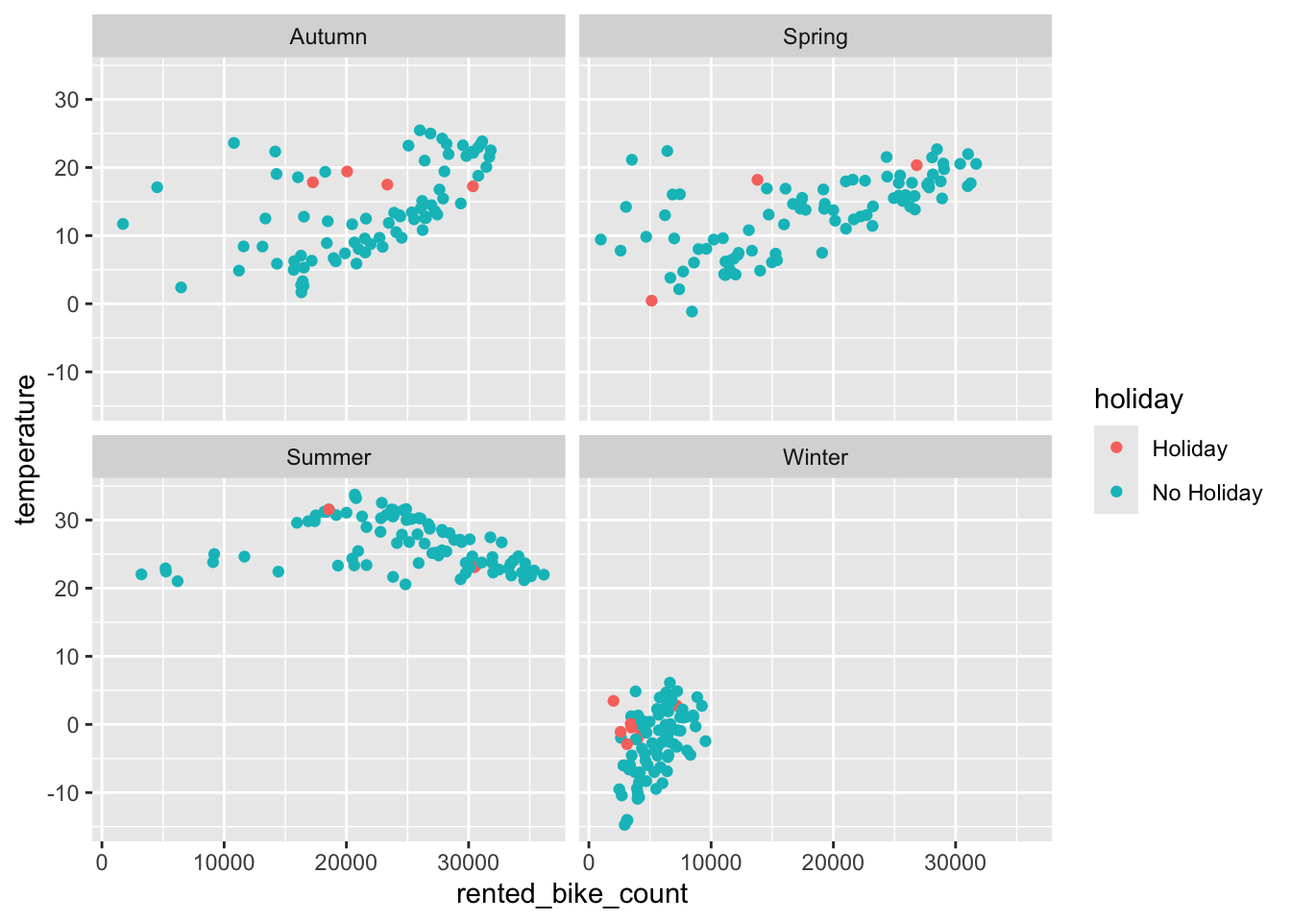
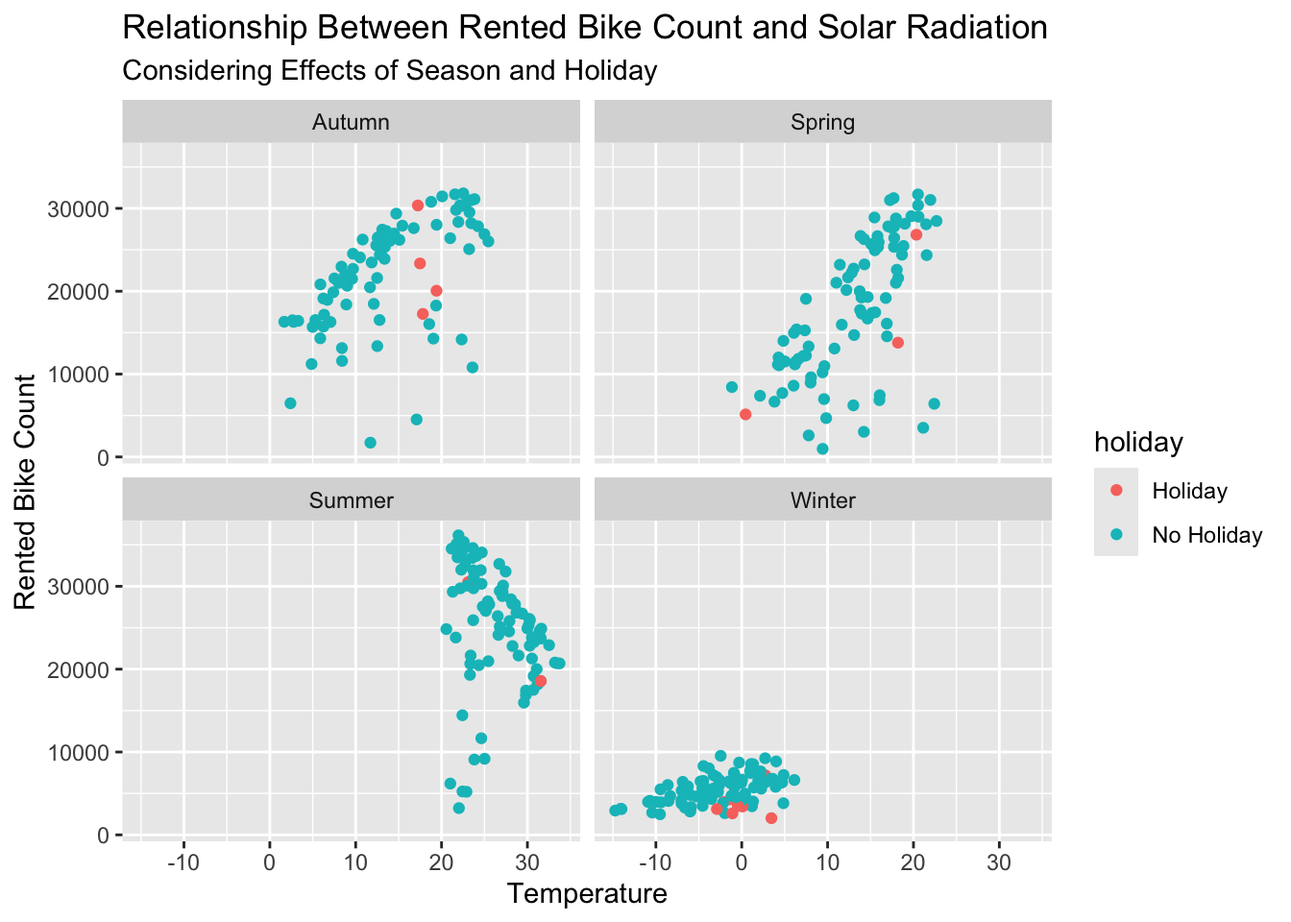
final commit

diff --git a/docs/basic_modeling_practice.html b/docs/basic_modeling_practice.html
@@ -162,6 +162,7 @@ pre > code.sourceCode > span > a:first-child::before { text-decoration: underlin
 </section>
 <section id="check-and-manipulate-the-data" class="level2">
 <h2 class="anchored" data-anchor-id="check-and-manipulate-the-data">Check and manipulate the data</h2>
+<p>Check for any missing values.</p>
 <div class="cell">
 <div class="sourceCode cell-code" id="cb3"><pre class="sourceCode r code-with-copy"><code class="sourceCode r"><span id="cb3-1"><a href="#cb3-1" aria-hidden="true" tabindex="-1"></a><span class="fu">vis_miss</span>(seoul_bike_data)</span></code><button title="Copy to Clipboard" class="code-copy-button"><i class="bi"></i></button></pre></div>
 <div class="cell-output-display">
@@ -172,6 +173,7 @@ pre > code.sourceCode > span > a:first-child::before { text-decoration: underlin
 </div>
 </div>
 </div>
+<p>Explore columns names, column types, and values.</p>
 <div class="cell">
 <div class="sourceCode cell-code" id="cb4"><pre class="sourceCode r code-with-copy"><code class="sourceCode r"><span id="cb4-1"><a href="#cb4-1" aria-hidden="true" tabindex="-1"></a><span class="fu">glimpse</span>(seoul_bike_data)</span></code><button title="Copy to Clipboard" class="code-copy-button"><i class="bi"></i></button></pre></div>
 <div class="cell-output cell-output-stdout">
@@ -193,6 +195,7 @@ $ Holiday                     &lt;chr&gt; "No Holiday", "No Holiday", "No Holida
 $ `Functioning Day`           &lt;chr&gt; "Yes", "Yes", "Yes", "Yes", "Yes", "Yes", …</code></pre>
 </div>
 </div>
+<p>Generate basic summary statistics for numeric columns and check the unique values for the categorical variables.</p>
 <div class="cell">
 <div class="sourceCode cell-code" id="cb6"><pre class="sourceCode r code-with-copy"><code class="sourceCode r"><span id="cb6-1"><a href="#cb6-1" aria-hidden="true" tabindex="-1"></a><span class="fu">skim</span>(seoul_bike_data)</span></code><button title="Copy to Clipboard" class="code-copy-button"><i class="bi"></i></button></pre></div>
 <div class="cell-output-display">
@@ -469,9 +472,11 @@ $ `Functioning Day`           &lt;chr&gt; "Yes", "Yes", "Yes", "Yes", "Yes", "Ye
 </table>
 </div>
 </div>
+<p>Simplify column names.</p>
 <div class="cell">
 <div class="sourceCode cell-code" id="cb7"><pre class="sourceCode r code-with-copy"><code class="sourceCode r"><span id="cb7-1"><a href="#cb7-1" aria-hidden="true" tabindex="-1"></a><span class="fu">names</span>(seoul_bike_data) <span class="ot">&lt;-</span> <span class="fu">str_remove</span>(<span class="fu">names</span>(seoul_bike_data), <span class="st">"</span><span class="sc">\\</span><span class="st">s*</span><span class="sc">\\</span><span class="st">([^</span><span class="sc">\\</span><span class="st">)]+</span><span class="sc">\\</span><span class="st">)"</span>)</span></code><button title="Copy to Clipboard" class="code-copy-button"><i class="bi"></i></button></pre></div>
 </div>
+<p>Convert the <code>Date</code> column into an actual date. Turn the character variables (<code>Seasons</code>, <code>Holiday</code>, and <code>Functioning Day</code>) into factors. Rename the all variables to have easy to use names in snake case.</p>
 <div class="cell">
 <div class="sourceCode cell-code" id="cb8"><pre class="sourceCode r code-with-copy"><code class="sourceCode r"><span id="cb8-1"><a href="#cb8-1" aria-hidden="true" tabindex="-1"></a>seoul_bike_data <span class="ot">&lt;-</span></span>
 <span id="cb8-2"><a href="#cb8-2" aria-hidden="true" tabindex="-1"></a>  seoul_bike_data <span class="sc">|&gt;</span></span>
@@ -503,6 +508,7 @@ $ `Functioning Day`           &lt;chr&gt; "Yes", "Yes", "Yes", "Yes", "Yes", "Ye
 </section>
 <section id="exploratory-data-analysis" class="level2">
 <h2 class="anchored" data-anchor-id="exploratory-data-analysis">Exploratory data analysis</h2>
+<p>Generate summary statistics across variables.</p>
 <div class="cell">
 <div class="sourceCode cell-code" id="cb10"><pre class="sourceCode r code-with-copy"><code class="sourceCode r"><span id="cb10-1"><a href="#cb10-1" aria-hidden="true" tabindex="-1"></a><span class="fu">summary</span>(seoul_bike_data)</span></code><button title="Copy to Clipboard" class="code-copy-button"><i class="bi"></i></button></pre></div>
 <div class="cell-output cell-output-stdout">
@@ -830,6 +836,7 @@ $ `Functioning Day`           &lt;chr&gt; "Yes", "Yes", "Yes", "Yes", "Yes", "Ye
 </table>
 </div>
 </div>
+<p>Explore <code>rented_bike_count</code> by the <code>functioning_day</code> variable.</p>
 <div class="cell">
 <div class="sourceCode cell-code" id="cb13"><pre class="sourceCode r code-with-copy"><code class="sourceCode r"><span id="cb13-1"><a href="#cb13-1" aria-hidden="true" tabindex="-1"></a>seoul_bike_data <span class="sc">|&gt;</span></span>
 <span id="cb13-2"><a href="#cb13-2" aria-hidden="true" tabindex="-1"></a>  <span class="fu">group_by</span>(functioning_day) <span class="sc">|&gt;</span></span>
@@ -938,6 +945,8 @@ $ `Functioning Day`           &lt;chr&gt; "Yes", "Yes", "Yes", "Yes", "Yes", "Ye
 </table>
 </div>
 </div>
+<p>There appear to be no bike rentals on non-functioning days. This implies the business is closed on these days and should be removed from the final data used for analysis.</p>
+<p>Create an object that captures all the weather variables.</p>
 <div class="cell">
 <div class="sourceCode cell-code" id="cb14"><pre class="sourceCode r code-with-copy"><code class="sourceCode r"><span id="cb14-1"><a href="#cb14-1" aria-hidden="true" tabindex="-1"></a>weather_vars <span class="ot">&lt;-</span> <span class="fu">names</span>(seoul_bike_data[<span class="dv">4</span><span class="sc">:</span><span class="dv">9</span>])</span>
 <span id="cb14-2"><a href="#cb14-2" aria-hidden="true" tabindex="-1"></a>weather_vars</span></code><button title="Copy to Clipboard" class="code-copy-button"><i class="bi"></i></button></pre></div>
@@ -946,6 +955,12 @@ $ `Functioning Day`           &lt;chr&gt; "Yes", "Yes", "Yes", "Yes", "Yes", "Ye
 [4] "visibility"            "dew_point_temperature" "solar_radiation"      </code></pre>
 </div>
 </div>
+<p>To simplify analysis, summarize across the hours so that each day has one observation associated with it:</p>
+<ul>
+<li><code>group_by()</code> the <code>date</code>, <code>seasons</code>, and <code>holiday</code> variables</li>
+<li>find the <code>sum</code> of the <code>rented_bike_count</code>, <code>rainfall</code>, and <code>snowfall</code> variables</li>
+<li>find the <code>mean</code> of all the weather related variables</li>
+</ul>
 <div class="cell">
 <div class="sourceCode cell-code" id="cb16"><pre class="sourceCode r code-with-copy"><code class="sourceCode r"><span id="cb16-1"><a href="#cb16-1" aria-hidden="true" tabindex="-1"></a>new_seoul_bike_data <span class="ot">&lt;-</span></span>
 <span id="cb16-2"><a href="#cb16-2" aria-hidden="true" tabindex="-1"></a>  seoul_bike_data <span class="sc">|&gt;</span></span>
@@ -975,7 +990,7 @@ $ `Functioning Day`           &lt;chr&gt; "Yes", "Yes", "Yes", "Yes", "Yes", "Ye
 #   dew_point_temperature &lt;dbl&gt;, solar_radiation &lt;dbl&gt;</code></pre>
 </div>
 </div>
-<p>Recreate your basic summary stats</p>
+<p>Recreate basic summary statistics.</p>
 <div class="cell">
 <div class="sourceCode cell-code" id="cb18"><pre class="sourceCode r code-with-copy"><code class="sourceCode r"><span id="cb18-1"><a href="#cb18-1" aria-hidden="true" tabindex="-1"></a><span class="fu">summary</span>(new_seoul_bike_data)</span></code><button title="Copy to Clipboard" class="code-copy-button"><i class="bi"></i></button></pre></div>
 <div class="cell-output cell-output-stdout">
@@ -1023,7 +1038,7 @@ std.dev           0.597     491.16                 12.99           0.316
 coef.var          0.346       0.34                  3.29           0.557</code></pre>
 </div>
 </div>
-<p>Report correlation between numeric variables</p>
+<p>Report correlation between numeric variables.</p>
 <div class="cell">
 <div class="sourceCode cell-code" id="cb22"><pre class="sourceCode r code-with-copy"><code class="sourceCode r"><span id="cb22-1"><a href="#cb22-1" aria-hidden="true" tabindex="-1"></a><span class="fu">cor</span>(new_seoul_bike_data[,<span class="dv">4</span><span class="sc">:</span><span class="fu">ncol</span>(new_seoul_bike_data)])</span></code><button title="Copy to Clipboard" class="code-copy-button"><i class="bi"></i></button></pre></div>
 <div class="cell-output cell-output-stdout">
@@ -1059,12 +1074,16 @@ dew_point_temperature           0.383
 solar_radiation                 1.000</code></pre>
 </div>
 </div>
-<p>Create some plots to explore relationships</p>
+<p>Create some plots to explore relationships.</p>
 <div class="cell">
 <div class="sourceCode cell-code" id="cb24"><pre class="sourceCode r code-with-copy"><code class="sourceCode r"><span id="cb24-1"><a href="#cb24-1" aria-hidden="true" tabindex="-1"></a>new_seoul_bike_data <span class="sc">|&gt;</span></span>
-<span id="cb24-2"><a href="#cb24-2" aria-hidden="true" tabindex="-1"></a>  <span class="fu">ggplot</span>(<span class="fu">aes</span>(<span class="at">x =</span> rented_bike_count, <span class="at">y =</span> temperature)) <span class="sc">+</span></span>
+<span id="cb24-2"><a href="#cb24-2" aria-hidden="true" tabindex="-1"></a>  <span class="fu">ggplot</span>(<span class="fu">aes</span>(<span class="at">x =</span> temperature, <span class="at">y =</span> rented_bike_count)) <span class="sc">+</span></span>
 <span id="cb24-3"><a href="#cb24-3" aria-hidden="true" tabindex="-1"></a>  <span class="fu">geom_point</span>(<span class="fu">aes</span>(<span class="at">color =</span> holiday)) <span class="sc">+</span></span>
-<span id="cb24-4"><a href="#cb24-4" aria-hidden="true" tabindex="-1"></a>  <span class="fu">facet_wrap</span>(<span class="sc">~</span> seasons)</span></code><button title="Copy to Clipboard" class="code-copy-button"><i class="bi"></i></button></pre></div>
+<span id="cb24-4"><a href="#cb24-4" aria-hidden="true" tabindex="-1"></a>  <span class="fu">facet_wrap</span>(<span class="sc">~</span> seasons) <span class="sc">+</span></span>
+<span id="cb24-5"><a href="#cb24-5" aria-hidden="true" tabindex="-1"></a>  <span class="fu">ggtitle</span>(<span class="st">"Relationship Between Rented Bike Count and Solar Radiation"</span>,</span>
+<span id="cb24-6"><a href="#cb24-6" aria-hidden="true" tabindex="-1"></a>          <span class="at">subtitle =</span> <span class="st">"Considering Effects of Season and Holiday"</span>) <span class="sc">+</span></span>
+<span id="cb24-7"><a href="#cb24-7" aria-hidden="true" tabindex="-1"></a>  <span class="fu">xlab</span>(<span class="st">"Temperature"</span>) <span class="sc">+</span></span>
+<span id="cb24-8"><a href="#cb24-8" aria-hidden="true" tabindex="-1"></a>  <span class="fu">ylab</span>(<span class="st">"Rented Bike Count"</span>)</span></code><button title="Copy to Clipboard" class="code-copy-button"><i class="bi"></i></button></pre></div>
 <div class="cell-output-display">
 <div>
 <figure class="figure">
@@ -1075,9 +1094,13 @@ solar_radiation                 1.000</code></pre>
 </div>
 <div class="cell">
 <div class="sourceCode cell-code" id="cb25"><pre class="sourceCode r code-with-copy"><code class="sourceCode r"><span id="cb25-1"><a href="#cb25-1" aria-hidden="true" tabindex="-1"></a>new_seoul_bike_data <span class="sc">|&gt;</span></span>
-<span id="cb25-2"><a href="#cb25-2" aria-hidden="true" tabindex="-1"></a>  <span class="fu">ggplot</span>(<span class="fu">aes</span>(<span class="at">x =</span> rented_bike_count, <span class="at">y =</span> wind_speed)) <span class="sc">+</span></span>
+<span id="cb25-2"><a href="#cb25-2" aria-hidden="true" tabindex="-1"></a>  <span class="fu">ggplot</span>(<span class="fu">aes</span>(<span class="at">x =</span> wind_speed, <span class="at">y =</span> rented_bike_count)) <span class="sc">+</span></span>
 <span id="cb25-3"><a href="#cb25-3" aria-hidden="true" tabindex="-1"></a>  <span class="fu">geom_point</span>() <span class="sc">+</span></span>
-<span id="cb25-4"><a href="#cb25-4" aria-hidden="true" tabindex="-1"></a>  <span class="fu">facet_wrap</span>(<span class="sc">~</span> seasons)</span></code><button title="Copy to Clipboard" class="code-copy-button"><i class="bi"></i></button></pre></div>
+<span id="cb25-4"><a href="#cb25-4" aria-hidden="true" tabindex="-1"></a>  <span class="fu">facet_wrap</span>(<span class="sc">~</span> seasons) <span class="sc">+</span></span>
+<span id="cb25-5"><a href="#cb25-5" aria-hidden="true" tabindex="-1"></a>  <span class="fu">ggtitle</span>(<span class="st">"Relationship Between Rented Bike Count and Wind Speed"</span>,</span>
+<span id="cb25-6"><a href="#cb25-6" aria-hidden="true" tabindex="-1"></a>          <span class="at">subtitle =</span> <span class="st">"Considering Effects of Season"</span>) <span class="sc">+</span></span>
+<span id="cb25-7"><a href="#cb25-7" aria-hidden="true" tabindex="-1"></a>  <span class="fu">xlab</span>(<span class="st">"Wind Speed"</span>) <span class="sc">+</span></span>
+<span id="cb25-8"><a href="#cb25-8" aria-hidden="true" tabindex="-1"></a>  <span class="fu">ylab</span>(<span class="st">"Rented Bike Count"</span>)</span></code><button title="Copy to Clipboard" class="code-copy-button"><i class="bi"></i></button></pre></div>
 <div class="cell-output-display">
 <div>
 <figure class="figure">
@@ -1088,9 +1111,13 @@ solar_radiation                 1.000</code></pre>
 </div>
 <div class="cell">
 <div class="sourceCode cell-code" id="cb26"><pre class="sourceCode r code-with-copy"><code class="sourceCode r"><span id="cb26-1"><a href="#cb26-1" aria-hidden="true" tabindex="-1"></a>new_seoul_bike_data <span class="sc">|&gt;</span></span>
-<span id="cb26-2"><a href="#cb26-2" aria-hidden="true" tabindex="-1"></a>  <span class="fu">ggplot</span>(<span class="fu">aes</span>(<span class="at">x =</span> rented_bike_count, <span class="at">y =</span> solar_radiation)) <span class="sc">+</span></span>
+<span id="cb26-2"><a href="#cb26-2" aria-hidden="true" tabindex="-1"></a>  <span class="fu">ggplot</span>(<span class="fu">aes</span>(<span class="at">x =</span> solar_radiation, <span class="at">y =</span> rented_bike_count)) <span class="sc">+</span></span>
 <span id="cb26-3"><a href="#cb26-3" aria-hidden="true" tabindex="-1"></a>  <span class="fu">geom_point</span>() <span class="sc">+</span></span>
-<span id="cb26-4"><a href="#cb26-4" aria-hidden="true" tabindex="-1"></a>  <span class="fu">facet_wrap</span>(<span class="sc">~</span> seasons)</span></code><button title="Copy to Clipboard" class="code-copy-button"><i class="bi"></i></button></pre></div>
+<span id="cb26-4"><a href="#cb26-4" aria-hidden="true" tabindex="-1"></a>  <span class="fu">facet_wrap</span>(<span class="sc">~</span> seasons) <span class="sc">+</span></span>
+<span id="cb26-5"><a href="#cb26-5" aria-hidden="true" tabindex="-1"></a>  <span class="fu">ggtitle</span>(<span class="st">"Relationship Between Rented Bike Count and Solar Radiation"</span>,</span>
+<span id="cb26-6"><a href="#cb26-6" aria-hidden="true" tabindex="-1"></a>          <span class="at">subtitle =</span> <span class="st">"Considering Effects of Season"</span>) <span class="sc">+</span></span>
+<span id="cb26-7"><a href="#cb26-7" aria-hidden="true" tabindex="-1"></a>  <span class="fu">xlab</span>(<span class="st">"Solar Radiation"</span>) <span class="sc">+</span></span>
+<span id="cb26-8"><a href="#cb26-8" aria-hidden="true" tabindex="-1"></a>  <span class="fu">ylab</span>(<span class="st">"Rented Bike Count"</span>)</span></code><button title="Copy to Clipboard" class="code-copy-button"><i class="bi"></i></button></pre></div>
 <div class="cell-output-display">
 <div>
 <figure class="figure">
@@ -1103,7 +1130,10 @@ solar_radiation                 1.000</code></pre>
 <div class="sourceCode cell-code" id="cb27"><pre class="sourceCode r code-with-copy"><code class="sourceCode r"><span id="cb27-1"><a href="#cb27-1" aria-hidden="true" tabindex="-1"></a>new_seoul_bike_data <span class="sc">|&gt;</span></span>
 <span id="cb27-2"><a href="#cb27-2" aria-hidden="true" tabindex="-1"></a>  <span class="fu">mutate</span>(<span class="at">snowfall =</span> <span class="fu">factor</span>(<span class="fu">if_else</span>(snowfall <span class="sc">==</span> <span class="dv">0</span>, <span class="st">"No Snow"</span>, <span class="st">"Snow"</span>))) <span class="sc">|&gt;</span></span>
 <span id="cb27-3"><a href="#cb27-3" aria-hidden="true" tabindex="-1"></a>  <span class="fu">ggplot</span>(<span class="fu">aes</span>(<span class="at">x =</span> snowfall, <span class="at">y =</span> rented_bike_count)) <span class="sc">+</span></span>
-<span id="cb27-4"><a href="#cb27-4" aria-hidden="true" tabindex="-1"></a>  <span class="fu">geom_boxplot</span>()</span></code><button title="Copy to Clipboard" class="code-copy-button"><i class="bi"></i></button></pre></div>
+<span id="cb27-4"><a href="#cb27-4" aria-hidden="true" tabindex="-1"></a>  <span class="fu">geom_boxplot</span>() <span class="sc">+</span></span>
+<span id="cb27-5"><a href="#cb27-5" aria-hidden="true" tabindex="-1"></a>  <span class="fu">ggtitle</span>(<span class="st">"Distribution of Rented Bike Count for Snowy Versus Non-Snowy Days"</span>) <span class="sc">+</span></span>
+<span id="cb27-6"><a href="#cb27-6" aria-hidden="true" tabindex="-1"></a>  <span class="fu">xlab</span>(<span class="st">"Snowfall"</span>) <span class="sc">+</span></span>
+<span id="cb27-7"><a href="#cb27-7" aria-hidden="true" tabindex="-1"></a>  <span class="fu">ylab</span>(<span class="st">"Rented Bike Count"</span>)</span></code><button title="Copy to Clipboard" class="code-copy-button"><i class="bi"></i></button></pre></div>
 <div class="cell-output-display">
 <div>
 <figure class="figure">
@@ -1116,7 +1146,10 @@ solar_radiation                 1.000</code></pre>
 <div class="sourceCode cell-code" id="cb28"><pre class="sourceCode r code-with-copy"><code class="sourceCode r"><span id="cb28-1"><a href="#cb28-1" aria-hidden="true" tabindex="-1"></a>new_seoul_bike_data <span class="sc">|&gt;</span></span>
 <span id="cb28-2"><a href="#cb28-2" aria-hidden="true" tabindex="-1"></a>  <span class="fu">mutate</span>(<span class="at">rainfall =</span> <span class="fu">factor</span>(<span class="fu">if_else</span>(rainfall <span class="sc">==</span> <span class="dv">0</span>, <span class="st">"No Rain"</span>, <span class="st">"Rain"</span>))) <span class="sc">|&gt;</span></span>
 <span id="cb28-3"><a href="#cb28-3" aria-hidden="true" tabindex="-1"></a>  <span class="fu">ggplot</span>(<span class="fu">aes</span>(<span class="at">x =</span> rainfall, <span class="at">y =</span> rented_bike_count)) <span class="sc">+</span></span>
-<span id="cb28-4"><a href="#cb28-4" aria-hidden="true" tabindex="-1"></a>  <span class="fu">geom_boxplot</span>()</span></code><button title="Copy to Clipboard" class="code-copy-button"><i class="bi"></i></button></pre></div>
+<span id="cb28-4"><a href="#cb28-4" aria-hidden="true" tabindex="-1"></a>  <span class="fu">geom_boxplot</span>() <span class="sc">+</span></span>
+<span id="cb28-5"><a href="#cb28-5" aria-hidden="true" tabindex="-1"></a>  <span class="fu">ggtitle</span>(<span class="st">"Distribution of Rented Bike Count for Rainy Versus Non-Rainy Days"</span>) <span class="sc">+</span></span>
+<span id="cb28-6"><a href="#cb28-6" aria-hidden="true" tabindex="-1"></a>  <span class="fu">xlab</span>(<span class="st">"Rainfall"</span>) <span class="sc">+</span></span>
+<span id="cb28-7"><a href="#cb28-7" aria-hidden="true" tabindex="-1"></a>  <span class="fu">ylab</span>(<span class="st">"Rented Bike Count"</span>)</span></code><button title="Copy to Clipboard" class="code-copy-button"><i class="bi"></i></button></pre></div>
 <div class="cell-output-display">
 <div>
 <figure class="figure">
@@ -1129,7 +1162,10 @@ solar_radiation                 1.000</code></pre>
 <div class="sourceCode cell-code" id="cb29"><pre class="sourceCode r code-with-copy"><code class="sourceCode r"><span id="cb29-1"><a href="#cb29-1" aria-hidden="true" tabindex="-1"></a>new_seoul_bike_data <span class="sc">|&gt;</span></span>
 <span id="cb29-2"><a href="#cb29-2" aria-hidden="true" tabindex="-1"></a>  <span class="fu">mutate</span>(<span class="at">weekpart =</span> <span class="fu">factor</span>(<span class="fu">if_else</span>(<span class="fu">wday</span>(date, <span class="at">label =</span> T) <span class="sc">%in%</span> <span class="fu">c</span>(<span class="st">"Sun"</span>, <span class="st">"Sat"</span>), <span class="st">"Weekend"</span>, <span class="st">"Weekday"</span>))) <span class="sc">|&gt;</span></span>
 <span id="cb29-3"><a href="#cb29-3" aria-hidden="true" tabindex="-1"></a>  <span class="fu">ggplot</span>(<span class="fu">aes</span>(<span class="at">x =</span> weekpart, <span class="at">y =</span> rented_bike_count)) <span class="sc">+</span></span>
-<span id="cb29-4"><a href="#cb29-4" aria-hidden="true" tabindex="-1"></a>  <span class="fu">geom_boxplot</span>()</span></code><button title="Copy to Clipboard" class="code-copy-button"><i class="bi"></i></button></pre></div>
+<span id="cb29-4"><a href="#cb29-4" aria-hidden="true" tabindex="-1"></a>  <span class="fu">geom_boxplot</span>() <span class="sc">+</span></span>
+<span id="cb29-5"><a href="#cb29-5" aria-hidden="true" tabindex="-1"></a>  <span class="fu">ggtitle</span>(<span class="st">"Distribution of Rented Bike Count for Weekdays Versus Weekends"</span>) <span class="sc">+</span></span>
+<span id="cb29-6"><a href="#cb29-6" aria-hidden="true" tabindex="-1"></a>  <span class="fu">xlab</span>(<span class="st">"Part of Week"</span>) <span class="sc">+</span></span>
+<span id="cb29-7"><a href="#cb29-7" aria-hidden="true" tabindex="-1"></a>  <span class="fu">ylab</span>(<span class="st">"Rented Bike Count"</span>)</span></code><button title="Copy to Clipboard" class="code-copy-button"><i class="bi"></i></button></pre></div>
 <div class="cell-output-display">
 <div>
 <figure class="figure">
@@ -1141,7 +1177,10 @@ solar_radiation                 1.000</code></pre>
 <div class="cell">
 <div class="sourceCode cell-code" id="cb30"><pre class="sourceCode r code-with-copy"><code class="sourceCode r"><span id="cb30-1"><a href="#cb30-1" aria-hidden="true" tabindex="-1"></a>new_seoul_bike_data <span class="sc">|&gt;</span></span>
 <span id="cb30-2"><a href="#cb30-2" aria-hidden="true" tabindex="-1"></a>  <span class="fu">ggplot</span>(<span class="fu">aes</span>(<span class="at">x =</span> holiday, <span class="at">y =</span> rented_bike_count)) <span class="sc">+</span></span>
-<span id="cb30-3"><a href="#cb30-3" aria-hidden="true" tabindex="-1"></a>  <span class="fu">geom_boxplot</span>()</span></code><button title="Copy to Clipboard" class="code-copy-button"><i class="bi"></i></button></pre></div>
+<span id="cb30-3"><a href="#cb30-3" aria-hidden="true" tabindex="-1"></a>  <span class="fu">geom_boxplot</span>() <span class="sc">+</span></span>
+<span id="cb30-4"><a href="#cb30-4" aria-hidden="true" tabindex="-1"></a>  <span class="fu">ggtitle</span>(<span class="st">"Distribution of Rented Bike Count for Holidays Versus Non-Holidays"</span>) <span class="sc">+</span></span>
+<span id="cb30-5"><a href="#cb30-5" aria-hidden="true" tabindex="-1"></a>  <span class="fu">xlab</span>(<span class="st">"Holiday"</span>) <span class="sc">+</span></span>
+<span id="cb30-6"><a href="#cb30-6" aria-hidden="true" tabindex="-1"></a>  <span class="fu">ylab</span>(<span class="st">"Rented Bike Count"</span>)</span></code><button title="Copy to Clipboard" class="code-copy-button"><i class="bi"></i></button></pre></div>
 <div class="cell-output-display">
 <div>
 <figure class="figure">
@@ -1153,21 +1192,26 @@ solar_radiation                 1.000</code></pre>
 </section>
 <section id="split-the-data" class="level2">
 <h2 class="anchored" data-anchor-id="split-the-data">Split the data</h2>
-<p>Split the data into a training and test set (75/25 split). Use the strata argument to stratify the split on the <code>seasons</code> variable</p>
+<p>Split the data into a training and test set (75/25 split). Use the <code>strata</code> argument to stratify the split on the <code>seasons</code> variable.</p>
 <div class="cell">
 <div class="sourceCode cell-code" id="cb31"><pre class="sourceCode r code-with-copy"><code class="sourceCode r"><span id="cb31-1"><a href="#cb31-1" aria-hidden="true" tabindex="-1"></a><span class="fu">set.seed</span>(<span class="dv">1017</span>)</span>
 <span id="cb31-2"><a href="#cb31-2" aria-hidden="true" tabindex="-1"></a>bike_split <span class="ot">&lt;-</span> <span class="fu">initial_split</span>(new_seoul_bike_data, <span class="at">prop =</span> <span class="fl">0.75</span>, <span class="at">strata =</span> <span class="st">"seasons"</span>)</span>
 <span id="cb31-3"><a href="#cb31-3" aria-hidden="true" tabindex="-1"></a>bike_train <span class="ot">&lt;-</span> <span class="fu">training</span>(bike_split)</span>
 <span id="cb31-4"><a href="#cb31-4" aria-hidden="true" tabindex="-1"></a>bike_test <span class="ot">&lt;-</span> <span class="fu">testing</span>(bike_split)</span></code><button title="Copy to Clipboard" class="code-copy-button"><i class="bi"></i></button></pre></div>
 </div>
-<p>On the training set, create a 10 fold CV split</p>
+<p>On the training set, create a 10 fold CV split.</p>
 <div class="cell">
 <div class="sourceCode cell-code" id="cb32"><pre class="sourceCode r code-with-copy"><code class="sourceCode r"><span id="cb32-1"><a href="#cb32-1" aria-hidden="true" tabindex="-1"></a>bike_10_fold <span class="ot">&lt;-</span> <span class="fu">vfold_cv</span>(bike_train, <span class="dv">10</span>)</span></code><button title="Copy to Clipboard" class="code-copy-button"><i class="bi"></i></button></pre></div>
 </div>
 </section>
 <section id="create-recipes" class="level2">
 <h2 class="anchored" data-anchor-id="create-recipes">Create recipes</h2>
-<p>For the 1st recipe: • Let’s ignore the date variable for modeling (so we’ll need to remove that or give it a different ID) but use it to create a weekday/weekend (factor) variable. (See step 2 of the shinymodels tutorial! You can use step_date() then step_mutate() with a factor(if_else(…)) to create the variable. I then had to remove the intermediate variable created.) • Let’s standardize the numeric variables since their scales are pretty different. • Let’s create dummy variables for the seasons, holiday, and our new day type variable</p>
+<p>For the 1st recipe:</p>
+<ul>
+<li>ignore the date variable for modeling, but use it to create a weekday/weekend (factor) variable called <code>weekpart</code></li>
+<li>standardize the numeric variables</li>
+<li>create dummy variables for the <code>seasons</code>, <code>holiday</code>, and new <code>weekpart</code> variable</li>
+</ul>
 <div class="cell">
 <div class="sourceCode cell-code" id="cb33"><pre class="sourceCode r code-with-copy"><code class="sourceCode r"><span id="cb33-1"><a href="#cb33-1" aria-hidden="true" tabindex="-1"></a>bike_rec_1 <span class="ot">&lt;-</span></span>
 <span id="cb33-2"><a href="#cb33-2" aria-hidden="true" tabindex="-1"></a>  <span class="fu">recipe</span>(rented_bike_count <span class="sc">~</span> ., <span class="at">data =</span> bike_train) <span class="sc">|&gt;</span></span>
@@ -1201,7 +1245,11 @@ solar_radiation                 1.000</code></pre>
 #   seasons_Winter &lt;dbl&gt;, holiday_No.Holiday &lt;dbl&gt;, weekpart_Weekend &lt;dbl&gt;</code></pre>
 </div>
 </div>
-<p>For the 2nd recipe: • Do the same steps as above. • Add in interactions between seasons and holiday, seasons and temp, temp and rainfall. For the seasons interactions, you can use starts_with() to create the proper interactions.</p>
+<p>For the 2nd recipe:</p>
+<ul>
+<li>do the same steps as above</li>
+<li>add in interactions between <code>seasons</code> and <code>holiday</code>, <code>seasons</code> and <code>temperature</code>, and <code>temperature</code> and <code>rainfall</code></li>
+</ul>
 <div class="cell">
 <div class="sourceCode cell-code" id="cb36"><pre class="sourceCode r code-with-copy"><code class="sourceCode r"><span id="cb36-1"><a href="#cb36-1" aria-hidden="true" tabindex="-1"></a>bike_rec_2 <span class="ot">&lt;-</span></span>
 <span id="cb36-2"><a href="#cb36-2" aria-hidden="true" tabindex="-1"></a>  bike_rec_1 <span class="sc">|&gt;</span></span>
@@ -1236,7 +1284,11 @@ solar_radiation                 1.000</code></pre>
 #   holiday_No.Holiday_x_seasons_Winter &lt;dbl&gt;, …</code></pre>
 </div>
 </div>
-<p>For the 3rd recipe: • Do the same as the 2nd recipe. • Add in quadratic terms for each numeric predictor</p>
+<p>For the 3rd recipe:</p>
+<ul>
+<li>do the same as the 2nd recipe</li>
+<li>add in quadratic terms for each numeric predictor</li>
+</ul>
 <div class="cell">
 <div class="sourceCode cell-code" id="cb39"><pre class="sourceCode r code-with-copy"><code class="sourceCode r"><span id="cb39-1"><a href="#cb39-1" aria-hidden="true" tabindex="-1"></a>bike_rec_3 <span class="ot">&lt;-</span></span>
 <span id="cb39-2"><a href="#cb39-2" aria-hidden="true" tabindex="-1"></a>  <span class="fu">recipe</span>(rented_bike_count <span class="sc">~</span> ., <span class="at">data =</span> bike_train) <span class="sc">|&gt;</span></span>
@@ -1281,11 +1333,13 @@ solar_radiation                 1.000</code></pre>
 </section>
 <section id="fit-mlr-models" class="level2">
 <h2 class="anchored" data-anchor-id="fit-mlr-models">Fit MLR Models</h2>
+<p>Set up linear model fit to use the <code>“lm”</code> engine.</p>
 <div class="cell">
 <div class="sourceCode cell-code" id="cb42"><pre class="sourceCode r code-with-copy"><code class="sourceCode r"><span id="cb42-1"><a href="#cb42-1" aria-hidden="true" tabindex="-1"></a>lm_mod <span class="ot">&lt;-</span></span>
 <span id="cb42-2"><a href="#cb42-2" aria-hidden="true" tabindex="-1"></a>  <span class="fu">linear_reg</span>() <span class="sc">|&gt;</span></span>
 <span id="cb42-3"><a href="#cb42-3" aria-hidden="true" tabindex="-1"></a>  <span class="fu">set_engine</span>(<span class="st">"lm"</span>)</span></code><button title="Copy to Clipboard" class="code-copy-button"><i class="bi"></i></button></pre></div>
 </div>
+<p>Fit models for recipe 1 using 10 fold CV via <code>fit_resamples()</code> and consider the training set CV error.</p>
 <div class="cell">
 <div class="sourceCode cell-code" id="cb43"><pre class="sourceCode r code-with-copy"><code class="sourceCode r"><span id="cb43-1"><a href="#cb43-1" aria-hidden="true" tabindex="-1"></a>bike_wfl_1 <span class="ot">&lt;-</span></span>
 <span id="cb43-2"><a href="#cb43-2" aria-hidden="true" tabindex="-1"></a>  <span class="fu">workflow</span>() <span class="sc">|&gt;</span></span>
@@ -1302,7 +1356,7 @@ solar_radiation                 1.000</code></pre>
 <span id="cb45-2"><a href="#cb45-2" aria-hidden="true" tabindex="-1"></a>  bike_cv_fits_1 <span class="sc">|&gt;</span></span>
 <span id="cb45-3"><a href="#cb45-3" aria-hidden="true" tabindex="-1"></a>  <span class="fu">collect_metrics</span>()</span></code><button title="Copy to Clipboard" class="code-copy-button"><i class="bi"></i></button></pre></div>
 </div>
-<p>Repeat process for recipe 2</p>
+<p>Repeat process for recipe 2.</p>
 <div class="cell">
 <div class="sourceCode cell-code" id="cb46"><pre class="sourceCode r code-with-copy"><code class="sourceCode r"><span id="cb46-1"><a href="#cb46-1" aria-hidden="true" tabindex="-1"></a>bike_wfl_2 <span class="ot">&lt;-</span></span>
 <span id="cb46-2"><a href="#cb46-2" aria-hidden="true" tabindex="-1"></a>  <span class="fu">workflow</span>() <span class="sc">|&gt;</span></span>
@@ -1319,7 +1373,7 @@ solar_radiation                 1.000</code></pre>
 <span id="cb48-2"><a href="#cb48-2" aria-hidden="true" tabindex="-1"></a>  bike_cv_fits_2 <span class="sc">|&gt;</span></span>
 <span id="cb48-3"><a href="#cb48-3" aria-hidden="true" tabindex="-1"></a>  <span class="fu">collect_metrics</span>()</span></code><button title="Copy to Clipboard" class="code-copy-button"><i class="bi"></i></button></pre></div>
 </div>
-<p>Repeat for recipe 3</p>
+<p>Repeat process for recipe 3.</p>
 <div class="cell">
 <div class="sourceCode cell-code" id="cb49"><pre class="sourceCode r code-with-copy"><code class="sourceCode r"><span id="cb49-1"><a href="#cb49-1" aria-hidden="true" tabindex="-1"></a>bike_wfl_3 <span class="ot">&lt;-</span></span>
 <span id="cb49-2"><a href="#cb49-2" aria-hidden="true" tabindex="-1"></a>  <span class="fu">workflow</span>() <span class="sc">|&gt;</span></span>
@@ -1336,6 +1390,7 @@ solar_radiation                 1.000</code></pre>
 <span id="cb51-2"><a href="#cb51-2" aria-hidden="true" tabindex="-1"></a>  bike_cv_fits_3 <span class="sc">|&gt;</span></span>
 <span id="cb51-3"><a href="#cb51-3" aria-hidden="true" tabindex="-1"></a>  <span class="fu">collect_metrics</span>()</span></code><button title="Copy to Clipboard" class="code-copy-button"><i class="bi"></i></button></pre></div>
 </div>
+<p>Consider the training set CV error across recipes to choose a best model.</p>
 <div class="cell">
 <div class="sourceCode cell-code" id="cb52"><pre class="sourceCode r code-with-copy"><code class="sourceCode r"><span id="cb52-1"><a href="#cb52-1" aria-hidden="true" tabindex="-1"></a><span class="fu">rbind</span>(bike_cv_1_metrics, bike_cv_2_metrics, bike_cv_3_metrics)</span></code><button title="Copy to Clipboard" class="code-copy-button"><i class="bi"></i></button></pre></div>
 <div class="cell-output cell-output-stdout">
@@ -1375,6 +1430,7 @@ solar_radiation                 1.000</code></pre>
 # ℹ 19 more rows</code></pre>
 </div>
 </div>
+<p>Using the best model, fit the model to the entire training data set using the <code>last_fit()</code> function. Compute the RMSE metric on the test set.</p>
 <div class="cell">
 <div class="sourceCode cell-code" id="cb57"><pre class="sourceCode r code-with-copy"><code class="sourceCode r"><span id="cb57-1"><a href="#cb57-1" aria-hidden="true" tabindex="-1"></a>bike_wfl_3 <span class="sc">|&gt;</span></span>
 <span id="cb57-2"><a href="#cb57-2" aria-hidden="true" tabindex="-1"></a>  <span class="fu">last_fit</span>(<span class="at">split =</span> bike_split) <span class="sc">|&gt;</span></span>
@@ -1387,6 +1443,7 @@ solar_radiation                 1.000</code></pre>
 2 rsq     standard       0.895 Preprocessor1_Model1</code></pre>
 </div>
 </div>
+<p>Obtain the final model (fit on the entire training set) coefficient table using <code>extract_fit_parsnip()</code> and <code>tidy()</code>.</p>
 <div class="cell">
 <div class="sourceCode cell-code" id="cb59"><pre class="sourceCode r code-with-copy"><code class="sourceCode r"><span id="cb59-1"><a href="#cb59-1" aria-hidden="true" tabindex="-1"></a><span class="fu">extract_fit_parsnip</span>(</span>
 <span id="cb59-2"><a href="#cb59-2" aria-hidden="true" tabindex="-1"></a>  bike_wfl_3 <span class="sc">|&gt;</span></span>
